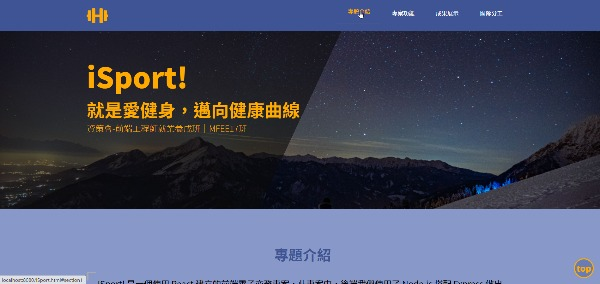
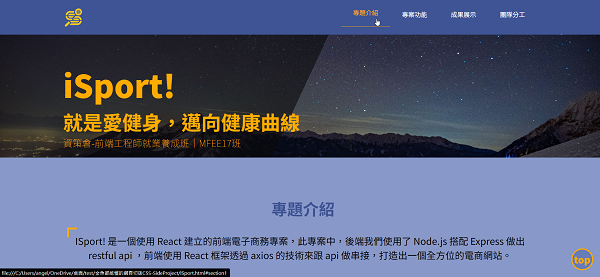
換logo

diff --git a/ISport.html b/ISport.html
@@ -26,7 +26,7 @@
         <label for="menu_control" class="menu_btn" id="menu">
             <span></span>
           </label>
-        <i class="fas fa-dumbbell fa-3x"></i>
+          <img class="logo" src="./images/logo.jpg" alt="logo" />
         <nav class="main-nav">
           <a href="#section1">專題介紹</a>
           <a href="#section2">專案功能</a>

diff --git a/style.css b/style.css
@@ -24,6 +24,10 @@
   /* 垂直置中 */
   padding: 20px 0;
 }
+.logo {
+  width: 48px;
+  height: 48px;
+}
 .section-bg1 {
   background-color: #3d57a59c;
 }
